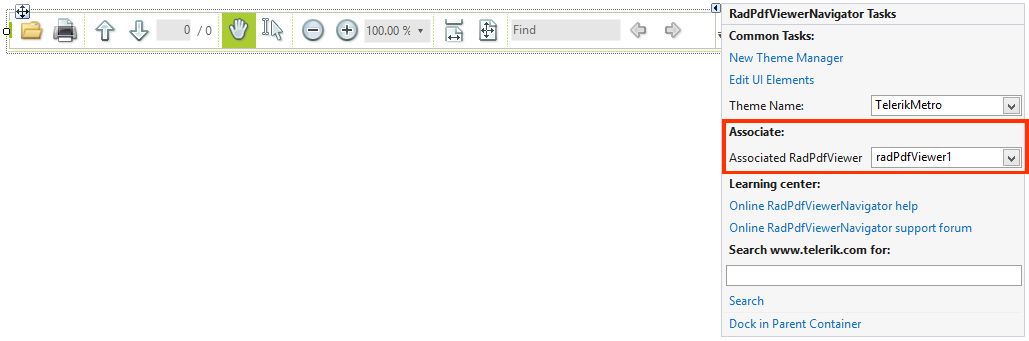
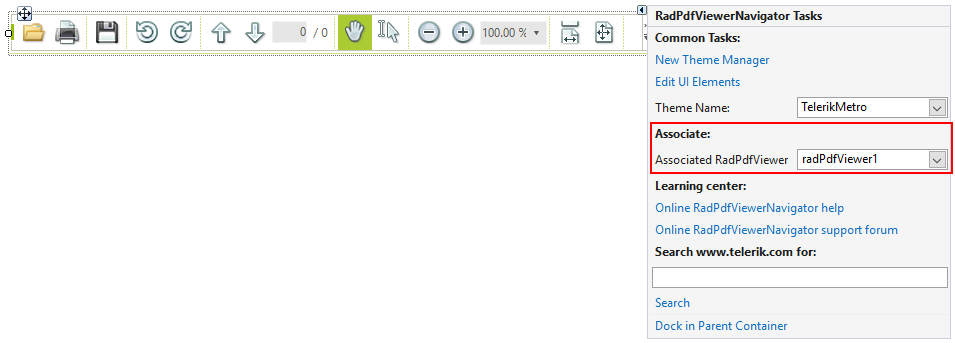
Working on release docs.

diff --git a/pdfviewer/pdfviewernavigator.md b/pdfviewer/pdfviewernavigator.md
@@ -11,29 +11,31 @@ previous_url: pdfviewer-pdfviewernavigator
 
 # PdfViewerNavigator
 
-This article describes the features provided by __PdfViewerNavigator__. The following article shows how you can associate the __PdfViewerNavigator__ with __RadPdfViewer__: [Geting Started]({%slug winforms/pdfviewer/getting-started%}).
+This article describes the features provided by __PdfViewerNavigator__. The following article shows how you can associate the __PdfViewerNavigator__ with __RadPdfViewer__: [Getting Started]({%slug winforms/pdfviewer/getting-started%}).
       
 >caption Figure 1: PdfViewerNavigator
 
 ![pdfviewer-pdfviewernavigator 001](images/pdfviewer-pdfviewernavigator001.png)
 
-## 
-
-This control can be used with __RadPdfViewer__. It provides predefined UI for the most common operations used with pdf files. The following list contains all features
+This control can be used with __RadPdfViewer__. It provides predefined UI for the most common operations used with PDF files. The following list contains all features:
 
 * __Open File:__ You can open files with this button.
 
 * __Print:__ Use this button to print the content.
 
+* __SaveAs:__ Use this option to save the current file in a specific location.
+
+* __Rotate:__ Rotate all pages clockwise or counter clockwise using the buttons.
+
 * __Navigation:__ You can navigate trough the document by using the previous/next page buttons or manually typing the page number.
 
-* __Pan and Select:__ You can select text in the document or you can move the page with the mouse.
+* __Pan__ and __Select:__ You can select text in the document or you can move the page with the mouse.
 
 * __Zoom:__ You can use the buttons to increase/decrease the zoom factor or select it from the drop down.
 
-* __FitWith and FithPage:__ These buttons allows you to fit the page according to the current window size.
+* __FitWith__ and __FithPage:__ These buttons allows you to fit the page according to the current window size.
 
-* __Search:__ You can search fr a particular string and navigate among the results.
+* __Search:__ You can search for a particular string and navigate among the results.
 
 # See Also
 

diff --git a/pdfviewer/rotation.md b/pdfviewer/rotation.md
@@ -1,0 +1,35 @@
+---
+title: Rotation
+page_title: Rotation | RadPdfViewer
+description: RadPdfViewer support page rotation out of the box. This article describes how you can rotate pages in the code.
+slug: winforms/pdfviewer/rotation
+tags: pdfviewer, rotation
+published: True
+position: 11
+---
+
+# Rotation
+
+__RadPdfViewer__ control provides functionality for rotating the pages of the loaded document. You can programmatically rotate the document pages through the __Rotate__ method or the __RotationAngle__ property.   
+
+![pdfviewer-rotation001](images/pdfviewer-rotation001.png)        
+
+The __Rotate__ method is intended to rotate the pages of the loaded document at the specified angle relative to its initial position. The method takes a single argument of type __RotationAngle__. The __RotationAngle__ is an enumeration that specifies the angle at which the document should be rotated. The possible values are: *Degrees0, Degrees90, Degrees180, Degrees270*.
+
+#### Using the Rotate method:
+
+{{source=..\SamplesCS\PdfViewer\RotationAndExport.cs region=RotateMethod}} 
+{{source=..\SamplesVB\PdfViewer\RotationAndExport.vb region=RotateMethod}} 
+
+
+{{endregion}}
+
+You can use the __RotationAngle__ property to rotate the pages or get the current rotation angle.
+
+#### Using RotationAngle property
+
+{{source=..\SamplesCS\PdfViewer\RotationAndExport.cs region=RotationAngleProperty}} 
+{{source=..\SamplesVB\PdfViewer\RotationAndExport.vb region=RotationAngleProperty}} 
+
+
+{{endregion}}

diff --git a/pdfviewer/save-document.md b/pdfviewer/save-document.md
@@ -1,0 +1,39 @@
+---
+title: Save Loaded Document
+page_title: Save Loaded Document | RadPdfViewer
+description: This article shows how you can use the built-in methods to save the loaded document or get is as a stream.
+slug: winforms/pdfviewer/save-as 
+tags: save, image
+published: True
+position: 17
+---
+
+
+# Save Programmatically
+
+The __SaveDocument__ method allows you to save the currently loaded document in an new file:
+
+#### Using SaveDocument method.
+
+{{source=..\SamplesCS\PdfViewer\RotationAndExport.cs region=RotateMethod}} 
+{{source=..\SamplesVB\PdfViewer\RotationAndExport.vb region=RotateMethod}} 
+
+
+{{endregion}}
+
+You can use the __GetDocumentAsStream__ method to retrieve the document stream:
+
+#### Get the document stream
+
+{{source=..\SamplesCS\PdfViewer\RotationAndExport.cs region=RotateMethod}} 
+{{source=..\SamplesVB\PdfViewer\RotationAndExport.vb region=RotateMethod}} 
+
+
+{{endregion}}
+
+
+## Save from the PdfViewerNavigator
+
+The PdfViewerNavigator has a save as button that can be used for saving the document as well.
+
+![pdf-viewer-save-document001](images/pdf-viewer-save-document001.png)        

diff --git a/pdfviewer/export-to-image.md b/pdfviewer/export-to-image.md
@@ -5,7 +5,7 @@ description: This article shows how you can use the built-in methods to export s
 slug: winforms/pdfviewer/export-to-image
 tags: export, image
 published: True
-position: 15
+position: 16
 ---
 
 # Export to image
